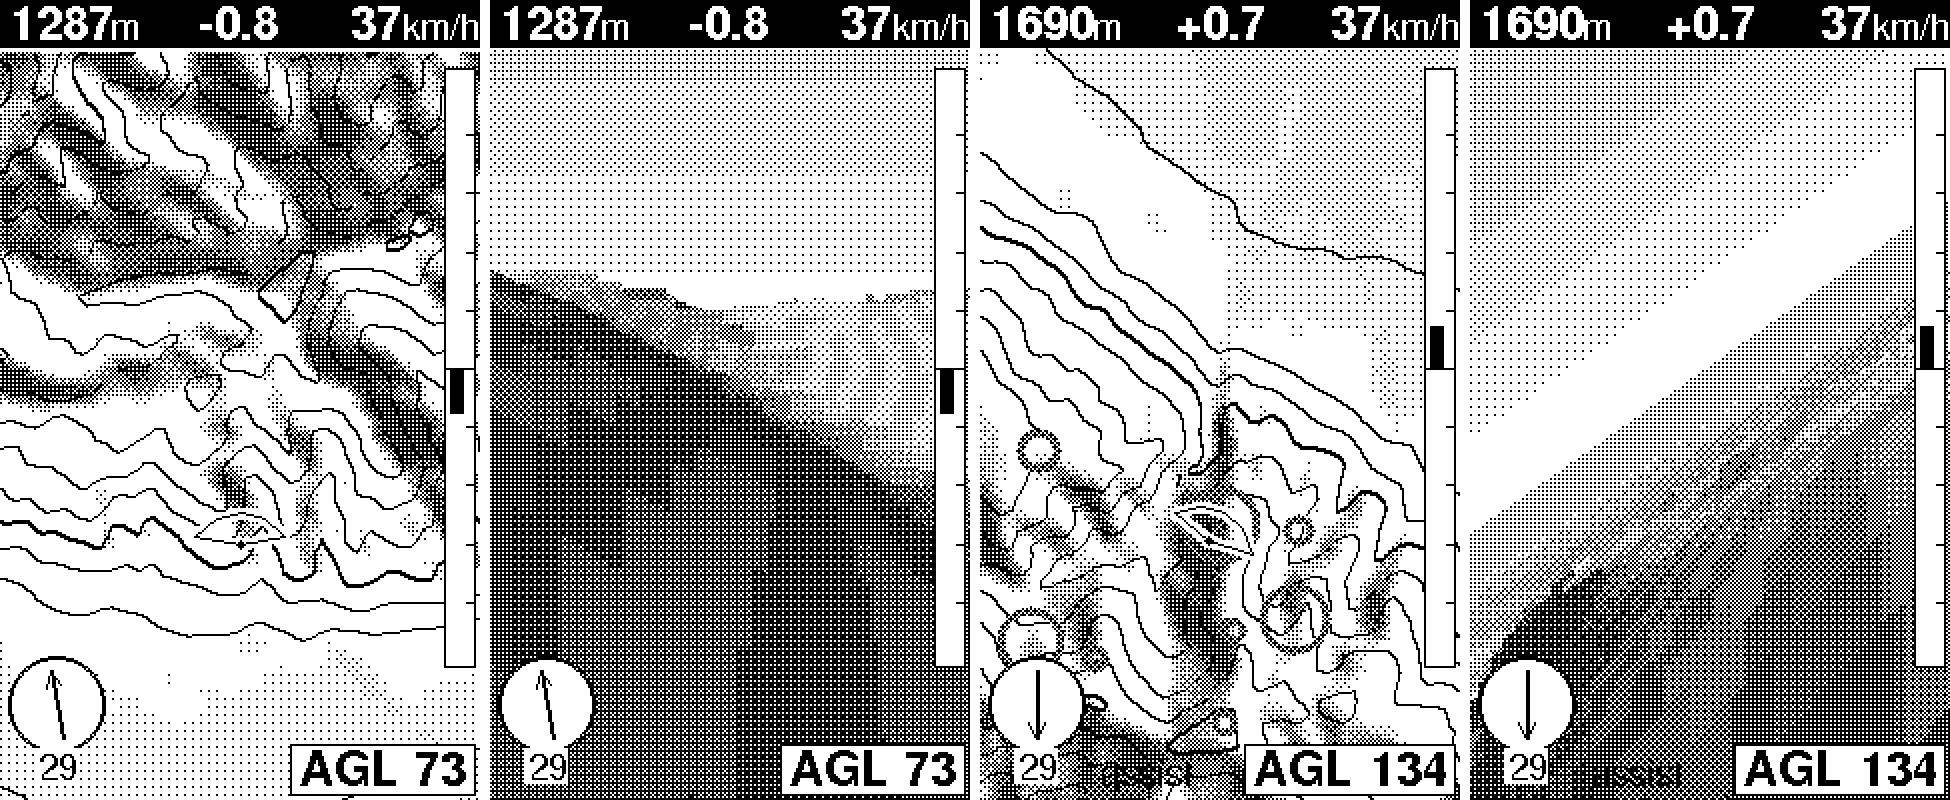
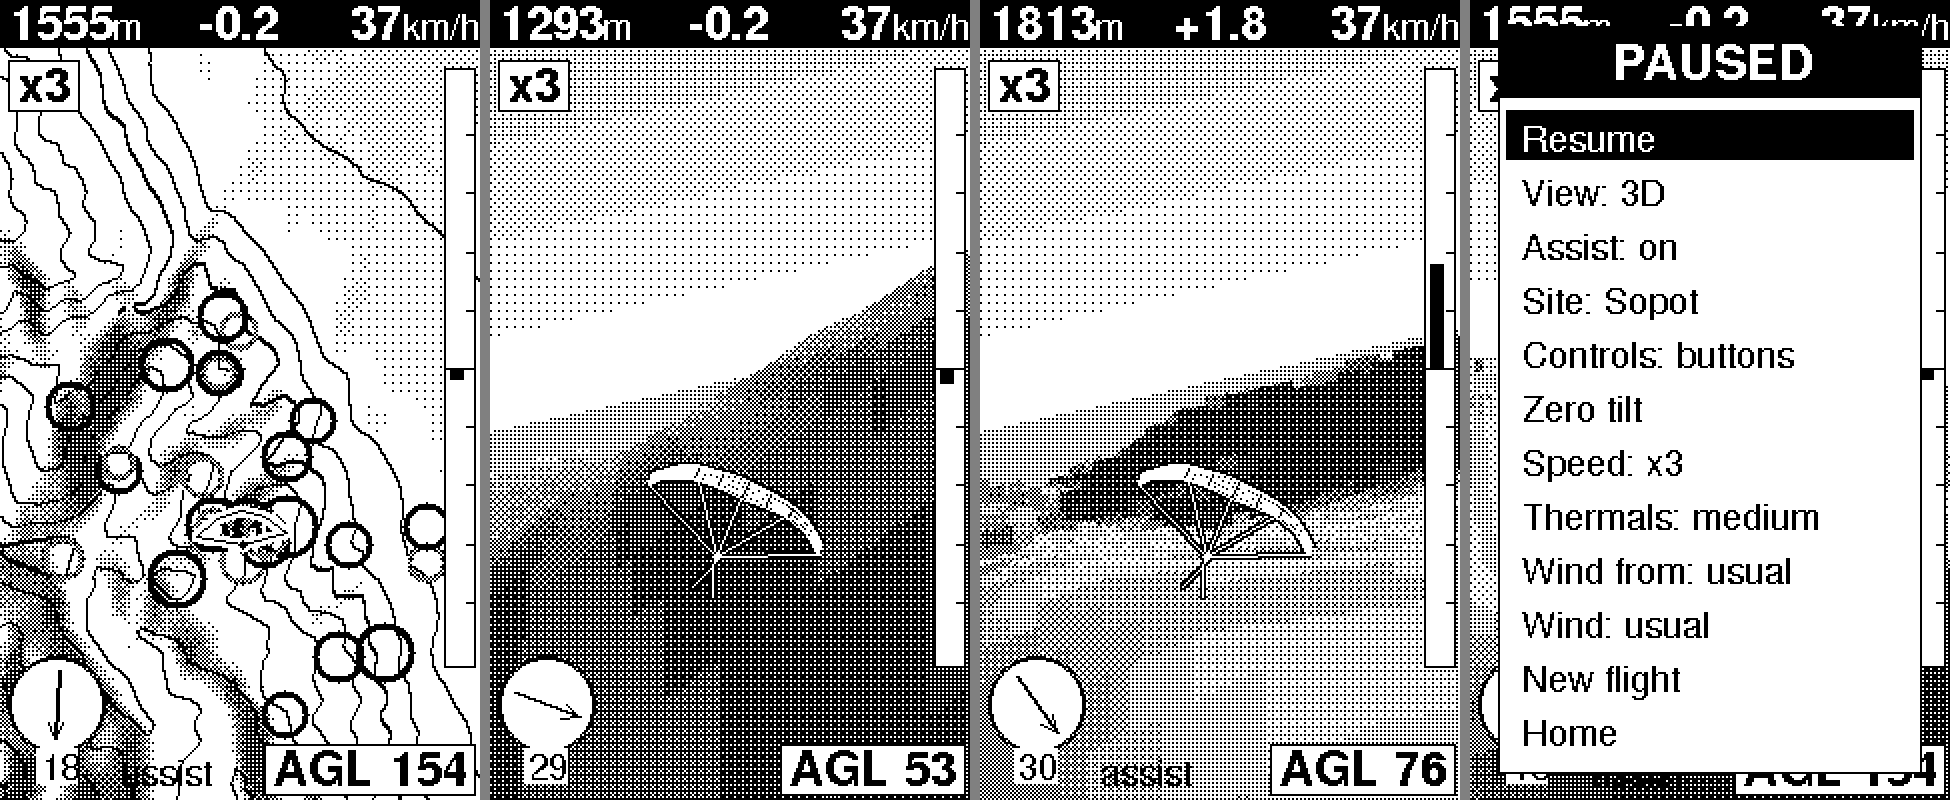
Sim docs: NOTES, README (chase cam, Day settings), PLAN; screenshots

diff --git a/firmware/emu/sim_shots.h b/firmware/emu/sim_shots.h
@@ -90,7 +90,7 @@ static void shots(const char* dir, terrain::Terrain& t) {
   dump(app, dir, "sim_chase_turn", 3);
   app.onKey(KEY_RIGHT, false, 0);
   app.onKey(KEY_UP, true, 0);                                // speed bar: the canopy shows more of its top
-  run(app, 100, sm);
+  run(app, 45, sm);
   dump(app, dir, "sim_chase_bar", 3);
 
   SimApp app2;
@@ -109,6 +109,7 @@ static void shots(const char* dir, terrain::Terrain& t) {
   // At launch with the assist on: the thermals a pilot can reach.
   SimApp app3;
   app3.setTerrain(&t);
+  app3.showDayScreen(false);
   app3.setSite(0);
   app3.setSeed(7);
   app3.begin(0);
@@ -120,6 +121,16 @@ static void shots(const char* dir, terrain::Terrain& t) {
   app3.setView(SimApp::View::CHASE);
   run(app3, 5, sm3);
   dump(app3, dir, "sim_chase_launch", 3);
+  app3.onKey(KEY_B, true, 0);                                // the pause menu with the Day rows
+  dump(app3, dir, "sim_menu", 3);
+
+  SimApp app4;                                               // the Day screen
+  app4.setTerrain(&t);
+  app4.setSite(5);
+  app4.begin(0);
+  app4.onKey(KEY_DOWN, true, 0);
+  app4.onKey(KEY_RIGHT, true, 0);
+  dump(app4, dir, "sim_day", 3);
 }
 
 // The standard renders from the Sopot fixture pack (run by emu_main shots).

diff --git a/firmware/emu/sim_bench.cpp b/firmware/emu/sim_bench.cpp
@@ -103,6 +103,17 @@ int main(int argc, char** argv) {
   const double vox = timeIt([&](int) { sim::Camera c; c.x = 0; c.y = -1000; c.z = 1400; c.heading = 0.35f; c.roll = 0.0f; c.pitch = 0.05f; app.voxel().render(bm, app.world().cache(), c); }, 300, &w3);
   rows.push_back({"3D renderer alone", vox, w3});
 
+  {
+    sim::Glider gl = app.world().glider();
+    gl.bank = 0.3f; gl.airspeed = 45.0f / 3.6f;
+    sim::ChaseCam cc;
+    cc.reset(gl);
+    const sim::Camera cam = cc.camera(gl, app.world().cache());
+    const double sp = timeIt([&](int) { cc.drawGlider(bm, gl, app.world().cache(), cam); }, 2000, &w3);
+    rows.push_back({"chase camera: glider sprite + shadow alone", sp, w3});
+    const double cm = timeIt([&](int) { cc.update(gl, NAN, 0.06f); (void)cc.camera(gl, app.world().cache()); }, 2000, &w3);
+    rows.push_back({"chase camera: smoothing + camera", cm, w3});
+  }
   app.setView(sim::SimApp::View::TOP);
   const double top = timeIt([&](int i) { memset(fb, 0xFF, sizeof fb); app.draw(bm, gfx, 20u * i); }, 300, &w3);
   rows.push_back({"top-down frame (blit + trail + glider + HUD)", top, w3});

diff --git a/firmware/src/apps/games/sim/sim_app.cpp b/firmware/src/apps/games/sim/sim_app.cpp
@@ -289,9 +289,11 @@ void SimApp::drawFlight(Bitmap1& bm) {
       static ThermalInfo th[Air::kMaxInfo];                 // static: the loop task has 4 KB of stack
       const int n = world_.air().nearby(g.x, g.y, g.z, world_.time(), 4500.0f, th, Air::kMaxInfo);
       for (int i = 0; i < n; i++) {
+        if (th[i].strength < 1.2f) continue;                 // still building up or dying: not worth a ring
         top_.worldToScreen(th[i].x, th[i].y, &px, &py);
-        const int r = 7 + (int)(th[i].strength * 3.0f);
-        fillRing(bm, (int)lroundf(px), (int)lroundf(py), r, r - 4, Gray(6), clip);
+        const int r = 6 + (int)(th[i].strength * 2.5f);
+        if (th[i].strength >= 2.5f) fillRing(bm, (int)lroundf(px), (int)lroundf(py), r, r - 3, DRAW_CLEAR, clip);   // strong: a black ring
+        else fillRing(bm, (int)lroundf(px), (int)lroundf(py), r, r - 3, Gray(7), clip);
       }
     }
     // Trail.

diff --git a/NOTES.md b/NOTES.md
@@ -688,3 +688,84 @@ confident state (change to 30 km/h; old: stuck at 11 km/h), and replays of the S
 from the reference once a wind is shown. They fail on the old code (8 failures). `test_ekf_seed_from_circle_fit` also covers the restart from a
 persistent contradiction. Whole flights: `host/wind_ref.py <igc>` (manual), `build.sh wind lines.txt` as before.
 
+
+## Flight simulator: playable air, chase camera, Day settings (2026-10-17)
+
+User feedback after playing: "I can't even reach a thermal". `build.sh simreach [PACK] [seeds] [t0..]` (`emu/sim_reach.cpp`, shared code
+in `emu/sim_reach.h`) measures it: per takeoff, seed and start time (180 / 1800 / 3600 s) the thermals working at launch (core
+>= 1.5 m/s with the life cycle applied, within 3.6 km), the nearest, how many a straight trim glide reaches (re-aimed at the moving
+column, >= 30 m above the ground on arrival), how many of those are still reached when the air sinks 0.5 m/s more ("with margin"), and
+what a scripted pilot (nearest reachable thermal, circle at 0.3 R, soar the slope when nothing is in reach) gains in 10 sim minutes.
+
+| | old air (same launch 150 m, wind 5 m/s) | new air, medium day |
+|---|---|---|
+| thermals working within 3.6 km | 1.6 - 3.6 (Bansko 1.6) | 11.6 - 16.1 |
+| nearest working thermal (median) | 870 - 2300 m | 160 - 400 m |
+| reachable at trim | 0 - 1.2 (mean) | 5.0 - 10.6 |
+| reachable with the 0.5 m/s margin | 0 - 1.0 | 3.4 - 8.3 |
+| runs with fewer than 2 reachable with margin | 86 of 90 | 2 of 288 (Sopot, t0 180 / 1800) |
+| scripted pilot gains >= 500 m in 10 min | 2 of 90 (2 %) | 264 of 288 (92 %), median gain 700 - 1600 m |
+
+(the very first run, with the old 60 m launch height and the old measure, was 0 of 90). Per site, new air (12 seeds x 3 start times):
+Sopot 33/36, Kalofer 32/36, Vratsa 32/36, Sliven 34/36, Bansko 36/36, Shumen 33/36, Madara 30/36, Nevsha 34/36.
+
+**What was wrong.** (1) The launch was 60 m above the takeoff with a 5 m/s headwind: ground speed 5 m/s at 1.9 m/s sink is a
+glide of 2.7 over the ground, so anything beyond 160 m was out of reach, and the nearest thermal was 0.9 - 2.3 km away. (2) The
+ridge lift (0.9 x wind x slope, slope from 150 m differences on a 200 m grid: noisy, sign flips every 400 m) was cancelled by the
+general sink of 0.5 - 1.0 m/s applied on top: net about zero on the slope, no soaring. (3) Thermals were few: one trigger per 1.8 km
+cell fired with 25 - 90 % chance, a period of 900 - 1500 s against lives of 600 - 1200 s (about a third of the time active), cores
+1 - 5 m/s with a median of 1.6, radius 50 - 150 m: about 3 working thermals within 9 km and most too weak for a turn (a turn costs
+0.35 m/s more sink, the Gaussian core at 0.45 R only 0.8 of its peak). (4) Nothing tied a trigger to the launch (real sites have
+known trigger spurs). (5) The table wind did not match the terrain (Sopot 190 degrees, the slope at the model's launch faces 138).
+(6) Launch spots in gullies or behind a knob: Sopot's launch cell is a notch between two bumps of +125 m.
+
+**Tuned (medium day).** Cloud base 2200 - 2800 m (seeded). General sink 0.3 - 0.6 m/s (seeded), faded to nothing where the ridge
+lifts by 1.2 m/s, reduced in cores. Thermal cells: period 600 - 1000 s, life 900 - 1500 s (15 - 25 min, overlapping; the collector
+looks 3 numbers back), fire probability (0.35 + 0.6 score), core S = 2.0 + 2.6 u^1.2 (0.5 + 0.5 score) = 2.0 - 4.6 m/s, radius 80 - 200 m
+widening 60 % per 1000 m of climb, lean with the wind as before. House thermals (`Air::setHome`, 3 per takeoff): trigger spots
+250 - 2000 m from the launch, 30 - 500 m below it, whose bubble (leaning downwind) crosses 150 - 800 m from the launch at launch
+height, with a 4:1 glide from the launch that clears the terrain, best sun score, in different directions (a relaxed search if the
+terrain has none); period 500 - 700 s, life 1100 - 1500 s (always >= 2 alive per house), S 2.6 - 4.4. Ridge lift = 1.0 x wind . slope,
+gradient on 300 m, decay with height 260 m. The start is 150 m above the takeoff (`World::kLaunchAgl`: the first seconds after
+leaving the slope), the wind blows onto the slope (direction from the 600 m aspect of the terrain model) at 5 m/s (18 km/h), 3
+minutes into the sim day. Test limits in `sim_tests.h` follow (cores 2 - 4.6 m/s, radius 80 - 200 x 1.9, cloud base 2200 - 2800).
+**Lift feel.** `AirSample.gx/gy` is the analytic gradient of the thermal part; the lift difference across the 10 m span (right minus
+left wing tip) gives a roll kick of 0.35 rad per m/s, at most 8 degrees, lagged 0.5 s, added to the commanded bank (`World::rollKick`,
+`Glider::step(..., rollKick)`). The tip on the stronger side rises, so the glider banks away from the core (physical): the pilot
+turns toward the high wing. At a thermal's edge (0.8 R of a 3 m/s core) it is about 4 degrees.
+
+**Playability test** (`playability()` in `sim_tests.h`, Sopot fixture 8 seeds x 2 start times, and when the real pack exists all 8
+takeoffs x 4 seeds): every run has >= 2 house thermals, >= 2 thermals reachable with the 0.5 m/s margin, nearest < 1.5 km; the
+scripted pilot gains >= 500 m in 10 min in >= 80 % of the runs (measured: fixture 14 of 16, real pack 31 of 32). The measured rates are
+printed. Also `day_settings()`: levels order strength, density, cloud base and sink; the scripted pilot's mean 10 minute gain on the
+fixture by level weak / medium / strong / epic = 507 / 916 / 1176 / 1387 m; wind direction flips ridge lift and lee sides; calm = no
+ridge lift; a wind change eases in at 0.6 m/s per second.
+
+**Day settings.** `SimApp` opens a "TODAY" screen (Site, Thermals, Wind from, Wind speed, Start; `showDayScreen(false)` for tests
+and tools) and the pause menu has the same rows. Thermals (`Air::setLevel`): weak / medium / strong / epic scale the core strength
+(x0.8 / 1 / 1.25 / 1.5), the fire probability (x0.7 / 1 / 1.15 / 1.25), the cloud base (-350 / 0 / +250 / +450 m) and the sink
+(x0.7 / 1 / 1.3 / 1.6): more lift up goes with more sink in between. Measured means (thermals > 1 m/s) 2.2 / 2.7 / 3.3 / 3.9 m/s, cloud
+base 2219 / 2569 / 2819 / 3019 m, sink 0.31 / 0.44 / 0.57 / 0.70. Decision for changes during a flight: the wind applies at once and eases in (the
+air is a continuous function of the wind vector, so a ramp of 0.6 m/s per second never jumps under the glider); the thermal level and
+the site regenerate the day and so apply at New flight (the menu row shows `*` while pending), because re-rolling the thermals under
+a flying glider would pop columns in and out.
+
+**Takeoffs added** (NE plateau): found with the terrain model around the rough positions (steepest convex edge cell: slope >= 0.15 at
+400 m, >= 200 m of drop within 1.5 km downhill, the plateau behind it, wind = the way the edge faces): Shumen 43.2529 N 26.9272 E 460 m
+(SE-facing, 2.9 km from the guess: the model's best edge near the town), Madara 43.2709 N 27.1188 E 405 m (NW, 0.2 km from the
+guess), Nevsha 43.2256 N 27.4744 E 330 m (NW, 3.6 km east of the village: the model's plateau edge above the Provadiya valley, 40 m
+floor to 300 m plateau). The pack covers them and the relief reads as plateau and valley (Shumen plateau 480 m over a 300 m valley;
+Madara 405 m over 130 m; Nevsha 330 m over 40 m). All approximate.
+
+**Chase camera** (`sim/chase.*`, replaces the first-person view; the enum is `View::CHASE`). 46 m behind, 20 m above, pitch 0.09 rad
+(horizon about 15 px lower: more ground in front), heading smoothed with tau 0.5 s of sim time (the update runs in sim seconds, so
+the lag looks the same at x1 / x3 / x5), roll = 0.35 of the bank (tau 0.3 s); the camera is lifted to 8 m above the ground behind
+the glider. The sprite (half span 46 px, a real 5 m at this distance would be 19 px: exaggerated to read) is drawn where the glider
+projects (lower middle, sideways in a turn), a black outline pass then a white fill: the canopy as a stack of arches with its seams,
+the lines and the pilot, rolled by bank minus camera roll, the canopy thickness 9 px at trim growing to 17 px at full bar (nose
+down). Shadow: a flat ellipse where the glider's position meets the ground, only while that is on the screen (AGL below about
+60 m). With tilt steering the camera roll is the box roll (horizon counter-rotation as before). **Device estimate** (same two
+methods as step 1, `build.sh simbench`): renderer unchanged 12.3 ms (cycle count; 0.78 M cycles), sprite + shadow 22 us on the PC =
+1.4 ms with the calibration factor 60 (about 800 short line calls), camera maths negligible, HUD about 1 ms, sim step 0.5 ms: about
+15 - 16 ms of the 20 ms frame (was 13 - 14), no margin for a second sprite. If it must shrink: halo outline only on the top arch
+(saves about 0.5 ms).

diff --git a/README.md b/README.md
@@ -295,16 +295,17 @@ and is built into the box image (on the device it says "needs the map pack" unti
 
 ![Flight sim: top-down on the Sopot ridge, 3D on the ridge, top-down with the thermal assist, 3D in a thermal](docs/screens/sim_overview.png)
 
-Left to right: the map view on the south slope above Sopot with the wind blowing onto it; the first-person view there;
-the map with the thermal assist on (dithered rings, the pilot circling in one); the 3D view banked in the thermal.
+Left to right: the map at launch with the thermal assist on (black rings = cores of 2.5 m/s and more, dithered = weaker; the
+ones near the glider are the "house thermals" of the site); the chase camera in a right turn (the glider swings to the left
+of the screen and the horizon tilts a third of the bank); the chase camera circling in a thermal; the pause menu.
 
 | Key | Function |
 |---|---|
 | left / right | bank (ramps to full in 0.33 s, back to level when released) |
 | up / down | speed bar (37 -> 52 km/h) / brake (down to 28 km/h; the wing stalls in a turn at that speed) |
-| X (A) | toggle map / first-person 3D |
+| X (A) | toggle map / 3D chase view |
 | F | simulation speed x1 / x3 / x5 (default x3; also the pause menu Speed row); a box under the top strip shows it |
-| Z or Esc (B / MAIN) | pause menu: Resume, View, Assist (thermals on the map), Site (5 takeoffs), Controls Buttons / Tilt, Zero tilt, Speed x1/x3/x5, New flight, Home |
+| Z or Esc (B / MAIN) | pause menu: Resume, View, Assist (thermals on the map), Site (8 takeoffs), Controls Buttons / Tilt, Zero tilt, Speed x1/x3/x5, Thermals, Wind from, Wind speed, New flight, Home |
 | T | tilt steering with the mouse: x = roll, y = pitch (top of the window = top of the box away = speed bar); T again = buttons |
 | after landing | X = new flight, Z = home |
 
@@ -328,10 +329,32 @@ game mode (10 ms otherwise) so the main loop hits the 20 ms frame clock. The sim
 37 km/h 1.20, full bar 52 km/h 2.20); coordinated turn omega = g tan(bank) / V; extra sink in turns from induced drag
 (n^2); roll lag 0.4 s (pendulum), airspeed lag 1.2 s; stall below 26 km/h x sqrt(n) with strong sink and a warning. The air:
 wind (grows 40 % per 1000 m), seeded thermals triggered on sun-facing slopes and ridge tops found in the DEM (tilted columns with a
-Gaussian core, 1-5 m/s, 50-150 m, 10-20 min life cycle, cloud base 2000-2600 m), ridge lift = wind . slope with a height decay, lee
-sink, general sink 0.5-1 m/s. Ground contact is a landing (<= 4.5 m/s on <= 35 degree ground) or a crash.
+Gaussian core, 2-4.6 m/s on a medium day, 80-200 m radius widening with height, 15-25 min life cycle with overlap, cloud base
+2200-2800 m), three always-working "house thermals" per takeoff (trigger spurs below the launch whose bubble drifts over it), ridge
+lift = wind . slope with a height decay (it replaces the general sink where it lifts), lee sink, general sink 0.3-0.6 m/s.
+At the edge of a thermal the wing tip on the stronger side rises and the glider rolls a few degrees away from it: turn toward the
+high wing to centre (the "lift feel", `World::rollKick`). Ground contact is a landing (<= 4.5 m/s on <= 35 degree ground) or a crash.
 
-**Takeoffs** (approximate, corrected against the terrain model): Sopot, Kalofer, Vratsa, Sliven, Bansko. Note that the
+**3D chase view.** The camera hangs 46 m behind and 20 m above the glider, looking along a smoothed heading (it lags the glider by
+0.5 s of sim time, so turns swing the glider across the screen and the world sweeps past); the horizon follows a third of the bank
+(with tilt steering it counter-rotates by the box roll as before and the sprite shows the bank relative to it). The glider is a
+1-bit sprite from behind (canopy with cells, lines, pilot) in the lower middle of the screen, rolling with the bank and showing
+more of the canopy's top when the speed bar is pushed; a shadow appears on the ground when it is within about 60 m below. Code:
+`sim/chase.*`.
+
+**Day settings.** Starting the sim shows a "TODAY" screen: Site, Thermals (weak / medium / strong / epic), Wind from (the
+site's usual or N .. NW), Wind speed (usual 18 km/h, or 0 / 10 / 15 / 20 / 25 / 30 km/h) and Start; up / down pick the row,
+left / right (or A) change it, A on Start flies, B goes home. The "usual" wind is the way the takeoff slope faces (taken from the
+terrain model) at 5 m/s. Thermals scale the core strength (x0.8 / 1 / 1.25 / 1.5), the share of trigger cells that fire (x0.7 / 1 /
+1.15 / 1.25), the cloud base (-350 / 0 / +250 / +450 m) and the general sink (x0.7 / 1 / 1.3 / 1.6) together; medium is the
+tuned good day the playability test measures. Ridge lift and lee sink follow the wind, so turning the wind around moves the
+lift to the other side of the ridge. The same three rows are in the pause menu: wind changes apply at once and the air eases
+into them over about 15 s (0.6 m/s per second, no jump under the glider); Site and Thermals apply at New flight (the row shows a
+`*` while it differs from the flight you are in).
+
+**Takeoffs** (approximate, corrected against the terrain model): Sopot, Kalofer, Vratsa, Sliven, Bansko, and the north-eastern plateau
+sites Shumen, Madara and Nevsha (launch = steepest convex plateau-edge cell of the terrain model near the rough position).
+`build.sh simreach [PACK] [seeds]` prints how many thermals each takeoff can reach and how a scripted pilot climbs. Note that the
 coordinates 42.6575 N, 24.7531 E are Sopot town (530 m); the launch is on the slope about 3.7 km north, 1400 m.
 
 ## Box: home screen, vario, Tetris, compass tool and Settings in one image

diff --git a/PLAN.md b/PLAN.md
@@ -239,3 +239,11 @@ columns (240 vs 400) and a portrait screen column is a contiguous native row (by
 same orientation as the vario pages the sim feeds; tall view suits looking down/ahead; ~70 deg horizontal FOV;
 bank from the gravity direction in the screen plane. Landscape stays possible (renderer supports rotations): compare in
 the PC prototype if portrait feels cramped.
+
+**Playable air, chase camera, Day settings (2026-10-17, branch worktree-agent-a7f0bf8ddea82e02c).** Done: reachability tool and
+playability tests (92 % of 288 scripted flights climb >= 500 m in 10 min, every launch has >= 2 thermals reachable with margin),
+house thermals, tuned medium day, wing-tip lift feel, chase camera with glider sprite (replaces first person), three NE takeoffs
+(Shumen, Madara, Nevsha), "Day" screen and pause rows (thermals weak..epic, wind direction and speed). Numbers in NOTES.md.
+Next: look at the chase sprite on the device panel (halo cost), tune weak days (the scripted pilot only gains 500 m), a "reachable
+thermals" cue for the assist (arrows instead of rings), ridge lift from a smoother terrain scale, take the usual wind per site from
+real flying records.
